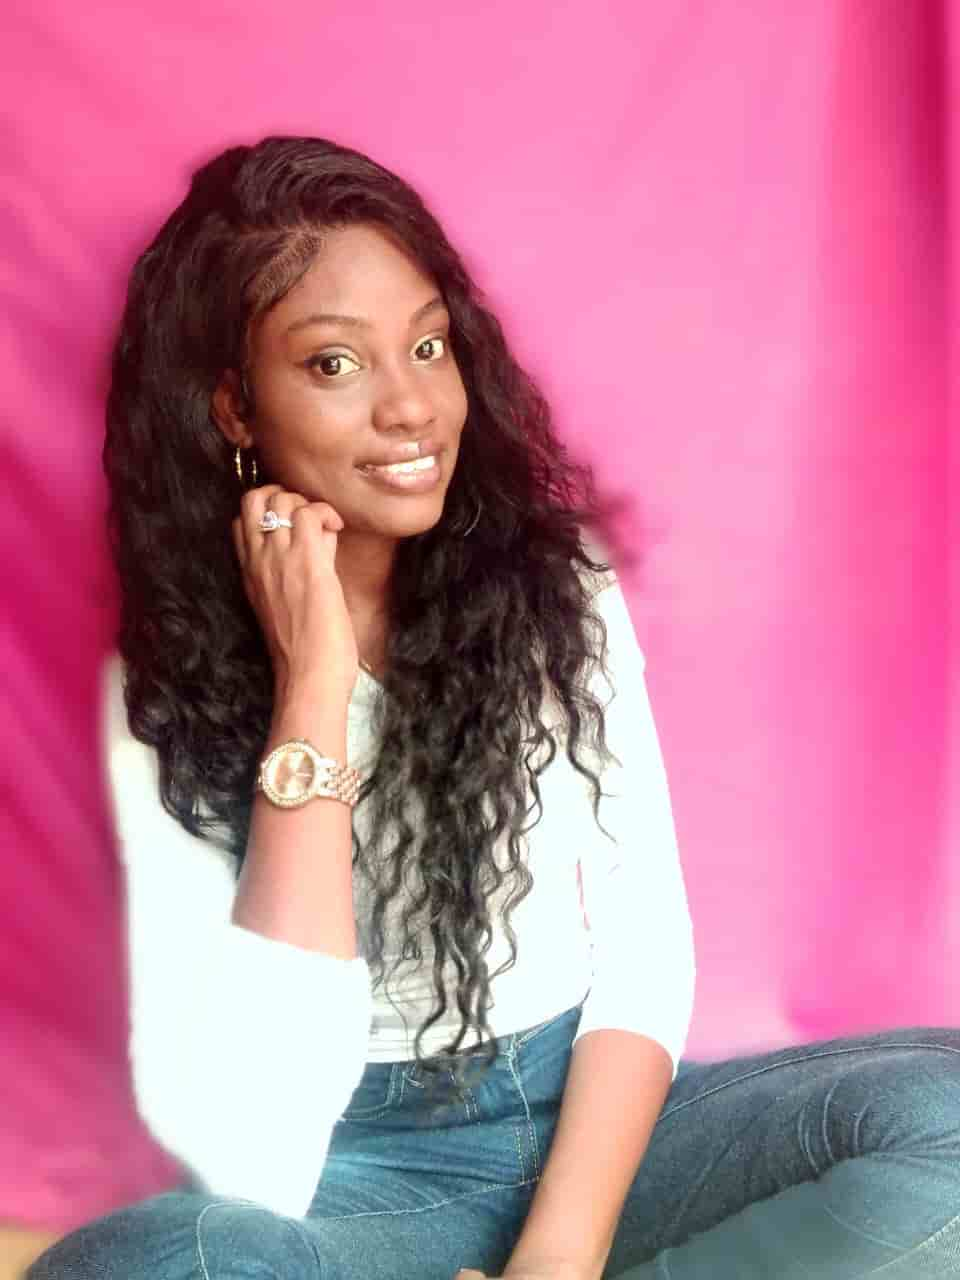
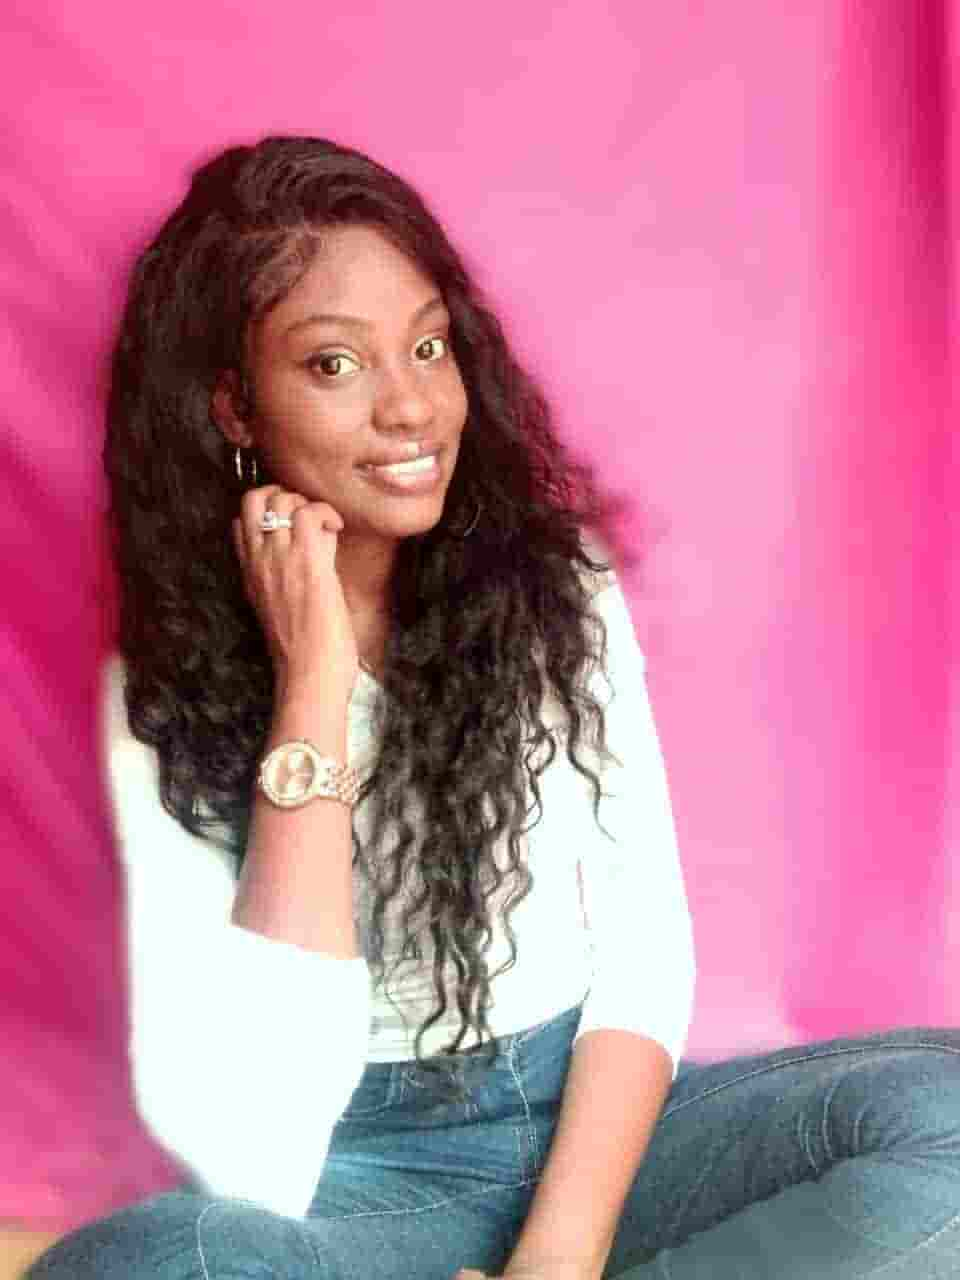
contact.html

Changed region(s): [[0.5312, 0.875, 0.5625, 0.9375], [0.4375, 0.25, 0.4688, 0.2812]]

diff --git a/wwr/contact.html b/wwr/contact.html
@@ -83,7 +83,7 @@
         <section class="box">
             <h2>We Are Here to Serve You</h2> 
             <div class="employee">
-            <figure><img src="images/blackwood.jpeg" alt="Reservations" width="150"><figcaption>Javenia Blackwood<br>Reservations Manager</figcaption></figure>
+            <figure><img src="images/blackwood.jpg" alt="Reservations" width="150"><figcaption>Javenia Blackwood<br>Reservations Manager</figcaption></figure>
             <figure> <img src="images/medley.jpg" alt="Customer Service" width="150"><figcaption>Eden Medley<br>Customer Care Manager</figcaption></figure>
             <figure> <img src="images/peynado.jpg" alt="Events Cordinator" width="150"><figcaption>Alicia Peynado<br>Events Cordinator</figcaption></figure>
             </div>
